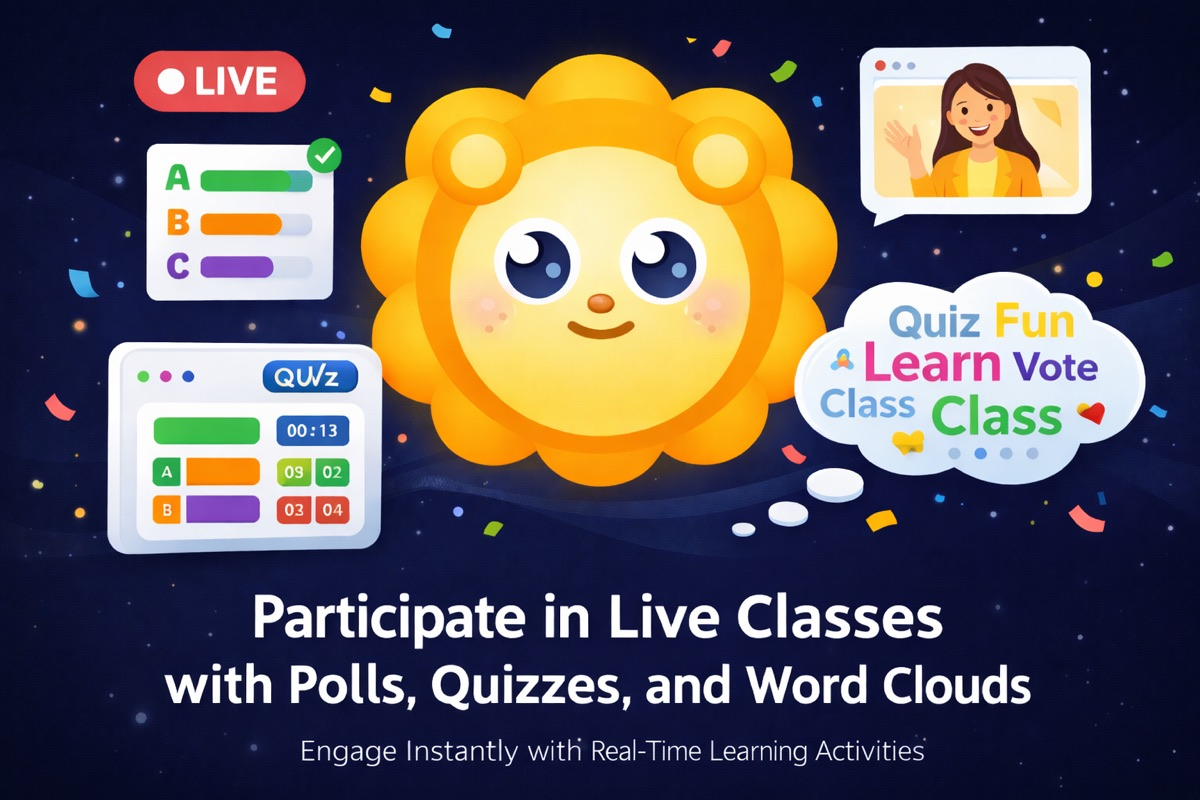
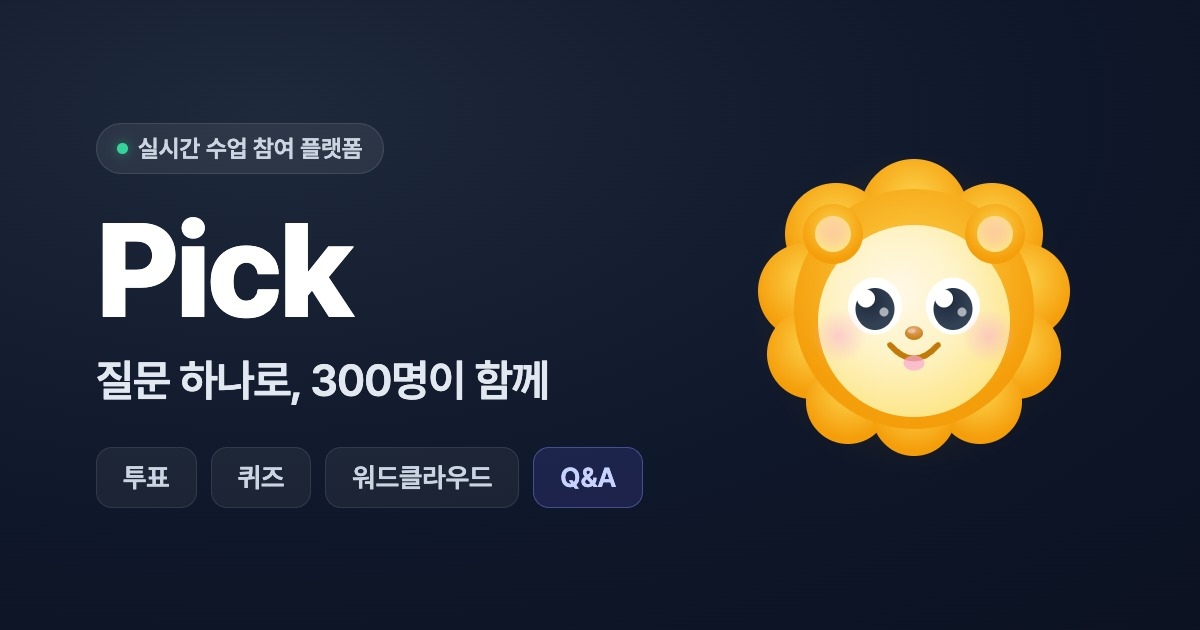
feat(og): 링크 미리보기 카드 리디자인 — 깔끔한 브랜드 카드
기존 OG 이미지가 AI 생성풍으로 난잡(영어 텍스트·워드클라우드 중복·산만한 목업)해 재제작.
- 다크 slate 그래디언트 + 실제 PickMascot(사자) + 한국어, 미니멀(Anti-AI 미학)
- "Pick / 질문 하나로, 300명이 함께 / 투표·퀴즈·워드클라우드·Q&A"
- 202KB → 59KB, og:image ?v=2 캐시버스트 + og:image:width/height/type + og:url 추가
- tests/og-card.html + og-render.spec.js: OG 재생성 도구(1200×630 렌더)

diff --git a/tests/og-card.html b/tests/og-card.html
@@ -1,0 +1,78 @@
+<!DOCTYPE html>
+<html lang="ko">
+<head>
+<meta charset="utf-8" />
+<link href="https://cdn.jsdelivr.net/gh/orioncactus/pretendard@v1.3.9/dist/web/static/pretendard.min.css" rel="stylesheet" />
+<style>
+  * { margin: 0; padding: 0; box-sizing: border-box; }
+  html, body { width: 1200px; height: 630px; }
+  body {
+    font-family: 'Pretendard', -apple-system, sans-serif;
+    background: radial-gradient(120% 120% at 22% 18%, #1e293b 0%, #0f172a 55%, #0b1120 100%);
+    color: #fff; display: flex; align-items: center; overflow: hidden;
+  }
+  .wrap { display: flex; align-items: center; width: 100%; padding: 0 96px; gap: 40px; }
+  .left { flex: 1; }
+  .pill {
+    display: inline-flex; align-items: center; gap: 10px;
+    background: rgba(255,255,255,.07); border: 1px solid rgba(255,255,255,.1);
+    padding: 10px 20px; border-radius: 999px; font-size: 24px; font-weight: 600; color: #cbd5e1;
+    margin-bottom: 30px;
+  }
+  .dot { width: 11px; height: 11px; border-radius: 50%; background: #34d399; box-shadow: 0 0 12px #34d39990; }
+  .brand { font-size: 132px; font-weight: 800; letter-spacing: -4px; line-height: 1; }
+  .tag { font-size: 44px; font-weight: 600; color: #e2e8f0; margin-top: 18px; letter-spacing: -1px; }
+  .chips { display: flex; gap: 14px; margin-top: 40px; }
+  .chip {
+    padding: 13px 26px; border-radius: 16px; font-size: 27px; font-weight: 600; color: #cbd5e1;
+    background: rgba(255,255,255,.05); border: 1px solid rgba(255,255,255,.09);
+  }
+  .chip.accent { background: rgba(99,102,241,.16); border-color: rgba(129,140,248,.4); color: #c7d2fe; }
+  .mascot { width: 380px; height: 380px; display: flex; align-items: center; justify-content: center; position: relative; flex-shrink: 0; }
+  .mascot::before {
+    content: ''; position: absolute; width: 320px; height: 320px; border-radius: 50%;
+    background: radial-gradient(circle, rgba(245,158,11,.22), transparent 70%); filter: blur(8px);
+  }
+  .mascot svg { position: relative; }
+</style>
+</head>
+<body>
+  <div class="wrap">
+    <div class="left">
+      <div class="pill"><span class="dot"></span> 실시간 수업 참여 플랫폼</div>
+      <div class="brand">Pick</div>
+      <div class="tag">질문 하나로, 300명이 함께</div>
+      <div class="chips">
+        <span class="chip">투표</span>
+        <span class="chip">퀴즈</span>
+        <span class="chip">워드클라우드</span>
+        <span class="chip accent">Q&amp;A</span>
+      </div>
+    </div>
+    <div class="mascot">
+      <svg viewBox="0 0 120 120" width="360" height="360" fill="none">
+        <defs>
+          <radialGradient id="mane" cx="50%" cy="38%" r="55%"><stop offset="0%" stop-color="#FCD34D"/><stop offset="100%" stop-color="#F59E0B"/></radialGradient>
+          <radialGradient id="face" cx="42%" cy="36%" r="65%"><stop offset="0%" stop-color="#FFF8E7"/><stop offset="50%" stop-color="#FEF3C7"/><stop offset="100%" stop-color="#FDE68A"/></radialGradient>
+          <radialGradient id="nose" cx="50%" cy="25%" r="75%"><stop offset="0%" stop-color="#E8A87C"/><stop offset="100%" stop-color="#C47A08"/></radialGradient>
+          <radialGradient id="blush"><stop offset="0%" stop-color="#F9A8D4" stop-opacity="0.5"/><stop offset="100%" stop-color="#F9A8D4" stop-opacity="0"/></radialGradient>
+          <radialGradient id="ear" cx="50%" cy="40%" r="60%"><stop offset="0%" stop-color="#FECDD3" stop-opacity="0.6"/><stop offset="100%" stop-color="#FDE68A"/></radialGradient>
+          <radialGradient id="eyeShine" cx="35%" cy="30%" r="60%"><stop offset="0%" stop-color="#1E293B"/><stop offset="100%" stop-color="#334155"/></radialGradient>
+        </defs>
+        <circle cx="60" cy="26" r="18" fill="url(#mane)"/><circle cx="34" cy="33" r="17" fill="url(#mane)"/><circle cx="86" cy="33" r="17" fill="url(#mane)"/>
+        <circle cx="24" cy="52" r="16" fill="url(#mane)"/><circle cx="96" cy="52" r="16" fill="url(#mane)"/><circle cx="26" cy="73" r="15" fill="url(#mane)"/>
+        <circle cx="94" cy="73" r="15" fill="url(#mane)"/><circle cx="38" cy="89" r="14" fill="url(#mane)"/><circle cx="82" cy="89" r="14" fill="url(#mane)"/>
+        <circle cx="60" cy="93" r="14" fill="url(#mane)"/><circle cx="60" cy="58" r="40" fill="url(#mane)"/>
+        <circle cx="60" cy="62" r="32" fill="url(#face)"/>
+        <circle cx="33" cy="33" r="10" fill="url(#mane)"/><circle cx="33" cy="33" r="6" fill="url(#ear)"/><circle cx="87" cy="33" r="10" fill="url(#mane)"/><circle cx="87" cy="33" r="6" fill="url(#ear)"/>
+        <ellipse cx="47" cy="57" rx="9" ry="9.5" fill="white"/><ellipse cx="47" cy="58" rx="6.5" ry="7" fill="url(#eyeShine)"/><circle cx="44" cy="54.5" r="3" fill="white"/><circle cx="50" cy="59" r="1.5" fill="white" opacity="0.6"/>
+        <ellipse cx="73" cy="57" rx="9" ry="9.5" fill="white"/><ellipse cx="73" cy="58" rx="6.5" ry="7" fill="url(#eyeShine)"/><circle cx="70" cy="54.5" r="3" fill="white"/><circle cx="76" cy="59" r="1.5" fill="white" opacity="0.6"/>
+        <ellipse cx="60" cy="66" rx="3" ry="2.3" fill="url(#nose)"/><ellipse cx="59.2" cy="65.3" rx="1.3" ry="0.8" fill="white" opacity="0.35"/>
+        <path d="M52 70 Q60 79 68 70" stroke="#C47A08" stroke-width="2" stroke-linecap="round" fill="none"/>
+        <ellipse cx="60" cy="76" rx="3.5" ry="2.5" fill="#F9A8D4" opacity="0.7"/>
+        <circle cx="35" cy="67" r="9" fill="url(#blush)"/><circle cx="85" cy="67" r="9" fill="url(#blush)"/>
+      </svg>
+    </div>
+  </div>
+</body>
+</html>

diff --git a/tests/e2e/og-render.spec.js b/tests/e2e/og-render.spec.js
@@ -1,0 +1,17 @@
+import { test } from '@playwright/test';
+import path from 'path';
+import { fileURLToPath } from 'url';
+
+const __dirname = path.dirname(fileURLToPath(import.meta.url));
+
+/** OG 카드(1200×630)를 public/og-image.jpg로 렌더. */
+test('OG 카드 렌더', async ({ page }) => {
+  await page.setViewportSize({ width: 1200, height: 630 });
+  await page.goto('file://' + path.resolve(__dirname, '../og-card.html'));
+  await page.evaluate(() => document.fonts.ready);
+  await page.waitForTimeout(1200); // 폰트·그래디언트 안정화
+  await page.screenshot({
+    path: path.resolve(__dirname, '../../public/og-image.jpg'),
+    type: 'jpeg', quality: 92, clip: { x: 0, y: 0, width: 1200, height: 630 },
+  });
+});

diff --git a/index.html b/index.html
@@ -16,8 +16,12 @@
     <meta property="og:type" content="website" />
     <meta property="og:title" content="Pick — 실시간 수업 참여 플랫폼" />
     <meta property="og:description" content="실시간 투표, 퀴즈, 워드클라우드로 수업에 참여하세요" />
-    <meta property="og:image" content="https://pick.aslan.it.kr/og-image.jpg" />
-    <meta name="twitter:image" content="https://pick.aslan.it.kr/og-image.jpg" />
+    <meta property="og:image" content="https://pick.aslan.it.kr/og-image.jpg?v=2" />
+    <meta property="og:image:width" content="1200" />
+    <meta property="og:image:height" content="630" />
+    <meta property="og:image:type" content="image/jpeg" />
+    <meta property="og:url" content="https://pick.aslan.it.kr/" />
+    <meta name="twitter:image" content="https://pick.aslan.it.kr/og-image.jpg?v=2" />
     <meta name="twitter:card" content="summary_large_image" />
     <meta name="twitter:title" content="Pick — 실시간 수업 참여 플랫폼" />
     <meta name="twitter:description" content="실시간 투표, 퀴즈, 워드클라우드로 수업에 참여하세요" />